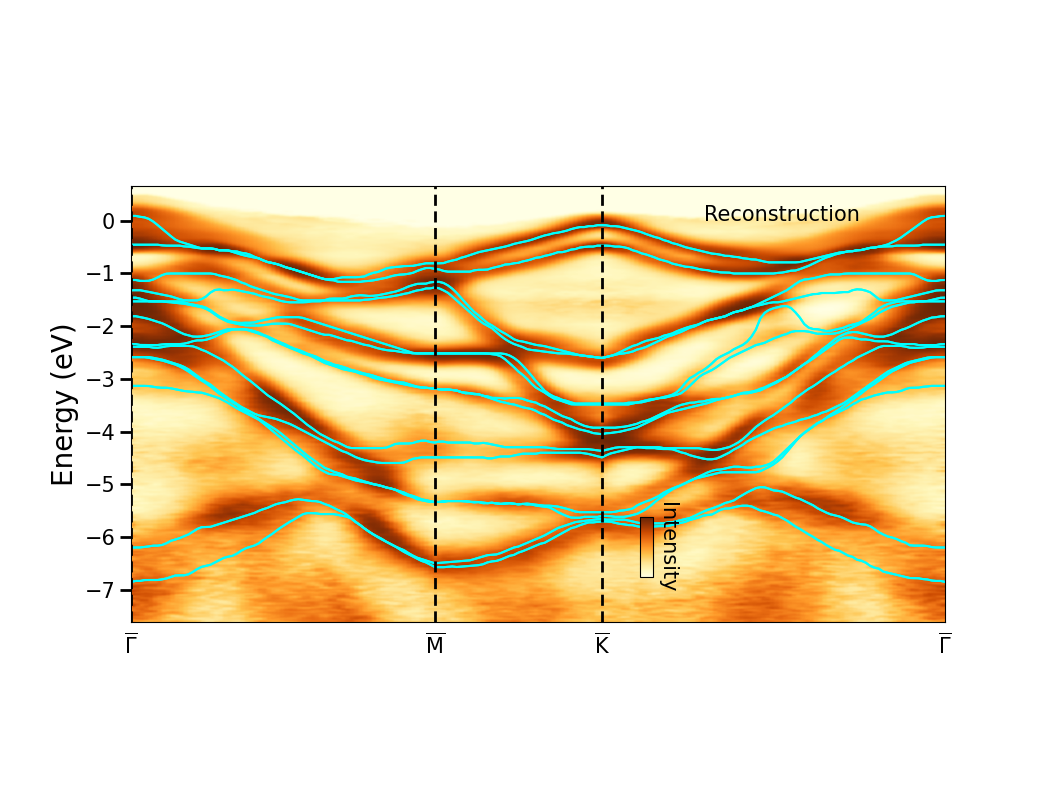
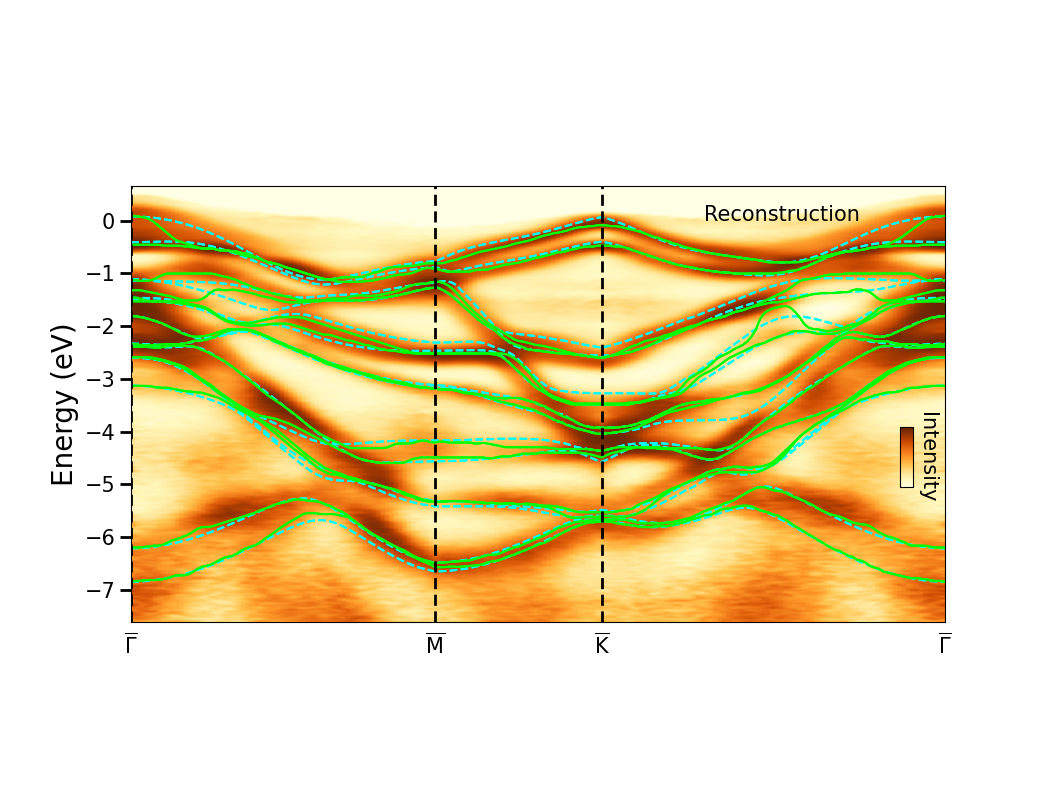
init bands plotted

diff --git a/scripts/visualize_dft_bands.py b/scripts/visualize_dft_bands.py
@@ -1,7 +1,7 @@
 import warnings as wn
 wn.filterwarnings("ignore")
 
-import os
+import pickle
 import numpy as np
 from fuller.mrfRec import MrfRec
 import matplotlib.pyplot as plt
@@ -12,11 +12,11 @@ from scipy import io as sio
 from fuller.utils import loadHDF
 
 # Load preprocessed photoemission data
-bcsm = np.load(r'../data/processed/hslines/WSe2_vcut.npy')
-Evals = fp.readBinnedhdf5(r'../data/pes/3_smooth.h5')['E']
+bcsm = np.load('../data/processed/hslines/WSe2_vcut.npy')
+Evals = fp.readBinnedhdf5('../data/pes/3_smooth.h5')['E']
 ehi, elo = Evals[0], Evals[469]
 
-paths = np.load(r'../data/processed/hslines/WSe2_kpath.npz')
+paths = np.load('../data/processed/hslines/WSe2_kpath.npz')
 
 dftbands = sio.loadmat('../data/theory/hslines/initials_DFT_G-M.mat')   
 hse_th_shift = dftbands['HSE'][100:125, 0].max()
@@ -25,23 +25,25 @@ reconbands = {}
 
 num_bands = 30 # default
 
-bands = np.empty((num_bands, 256, 256))
-for i in range(num_bands):
-    band = loadHDF(f'../results/band_data/mrf_rec_{i}.h5')
-    kx, ky, Eb = band['kx'], band['ky'], band['Eb']
-    Eb.reshape(256, 256)
-    bands[i] = Eb
-    
-bdi = aly.bandpath_map(np.moveaxis(bands, 0, 2), pathr=paths['rowInds'], pathc=paths['colInds'], eaxis=2)
-reconbands["recon"] = bdi.T
+init_bands = np.empty((num_bands, 256, 256))
+recon_bands = np.empty((num_bands, 256, 256))
 
-"""
-kx, ky, E = MrfRec.loadBandsMat('../data/theory/WSe2_PBEsol_bands.mat')
-# initialization bands
-print(kx.shape, ky.shape, E.shape)
 for i in range(num_bands):
-    print(E[i])
-"""  
+    # initialization bands
+    with open(f'../results/band_data/init_band_{i}.pkl', 'rb') as f:
+        init_band = pickle.load(f)
+        init_bands[i] = init_band
+
+    # reconstructed bands
+    recon_band = loadHDF(f'../results/band_data/mrf_rec_{i}.h5')
+    kx, ky, Eb = recon_band['kx'], recon_band['ky'], recon_band['Eb']
+    Eb.reshape(256, 256)
+    recon_bands[i] = Eb
+    
+bdi = aly.bandpath_map(np.moveaxis(init_bands, 0, 2), pathr=paths['rowInds'], pathc=paths['colInds'], eaxis=2)
+reconbands["init"] = bdi.T
+bdi = aly.bandpath_map(np.moveaxis(recon_bands, 0, 2), pathr=paths['rowInds'], pathc=paths['colInds'], eaxis=2)
+reconbands["recon"] = bdi.T
 
 
 pos = paths['pathInds']
@@ -51,7 +53,9 @@ ff, axa = plt.subplots(1, 1, figsize=(10.5, 8))
 im = axa.imshow(bcsm, cmap='YlOrBr', extent=[0, 185, elo, ehi], aspect=12)
 
 for ib in range(num_bands): # normally set to 14
-    axa.plot(reconbands['recon'][:,ib], color='cyan', zorder=1)
+    axa.plot(reconbands['init'][:,ib], color='cyan', linestyle='dashed', zorder=1)
+    axa.plot(reconbands['recon'][:,ib], color='lime', zorder=2)
+
 
 axa.tick_params(axis='y', length=8, width=2, labelsize=15)
 axa.tick_params(axis='x', length=0, labelsize=15, pad=8)
@@ -64,7 +68,7 @@ for p in pos[:-1]:
         axa.axvline(x=p, c='k', ls='--', lw=2, dashes=[4, 2])
         
 axa.set_title('Reconstruction', fontsize=15, x=0.8, y=0.9)
-cax = inset_axes(axa, width="3%", height="30%", bbox_to_anchor=(220, 90, 440, 200))
+cax = inset_axes(axa, width="3%", height="30%", bbox_to_anchor=(480, 180, 440, 200))
 cb = plt.colorbar(im, cax=cax, ticks=[])
 cb.ax.set_ylabel('Intensity', fontsize=15, rotation=-90, labelpad=17)
 

diff --git a/scripts/band_reconstruction.py b/scripts/band_reconstruction.py
@@ -1,14 +1,7 @@
-# Import packages
-import numpy as np
 import pickle
 import matplotlib.pyplot as plt
-import matplotlib as mpl
-from matplotlib.ticker import MultipleLocator, FormatStrFormatter
-
-from mpes import analysis as aly, fprocessing as fp
 from fuller.mrfRec import MrfRec
 from fuller.utils import loadHDF
-
 
 # Load preprocessed data
 print("loading preprocessed data...")
@@ -44,6 +37,10 @@ def reconstruct(band_index):
 
     # possible modify source to train multiple bands at once
     mrf.initializeBand(kx=kx_dft, ky=ky_dft, Eb=E_dft[band_index,...], offset=offset, kScale=k_scale, flipKAxes=True)
+
+    # save the E0 as either an h5 or pickled file
+    with open(f'../results/band_data/init_band_{band_index}.pkl', 'wb') as f:
+      pickle.dump(mrf.E0, f) # serialize the list
 
     # Run optimization to perform reconstruction
     print("training model...")
